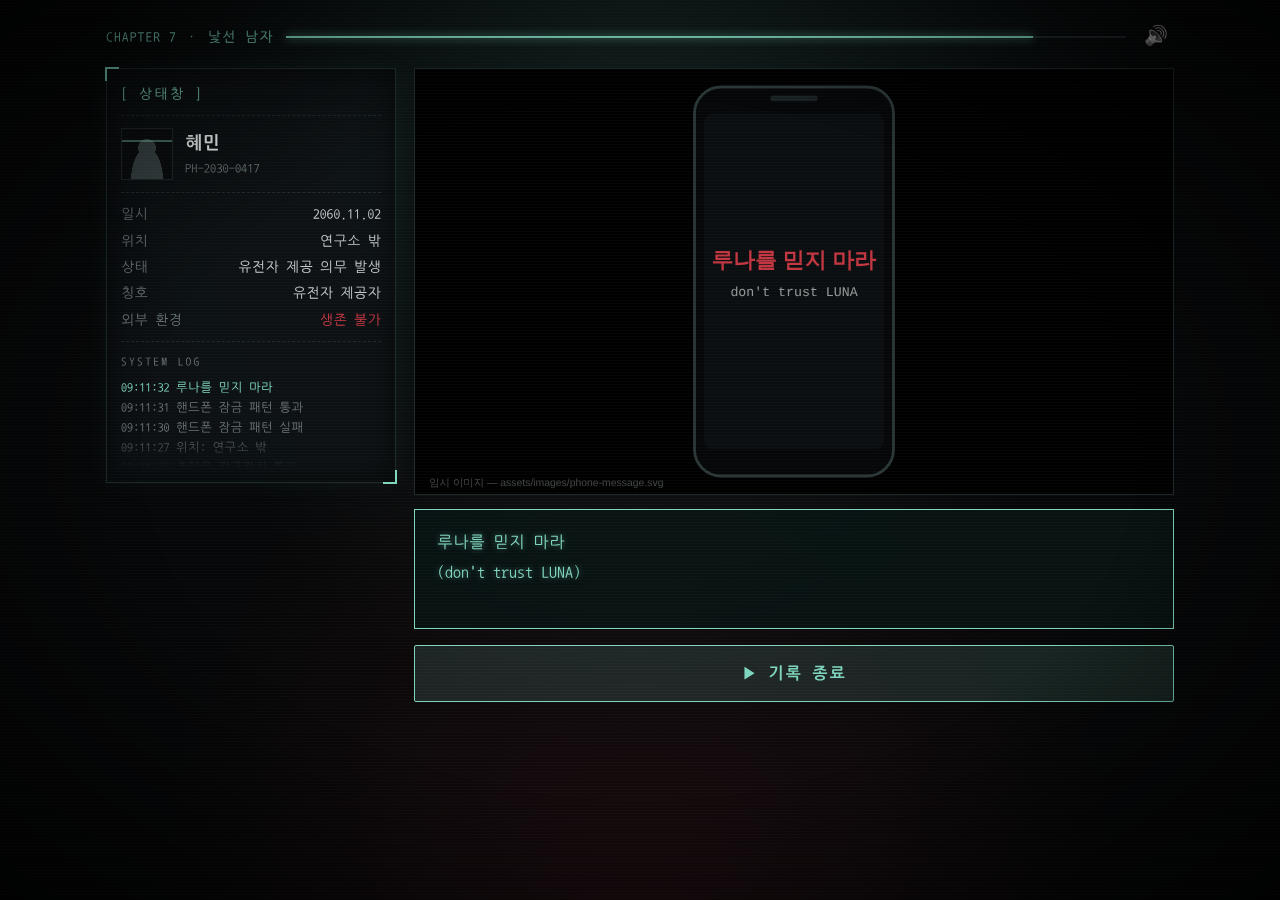
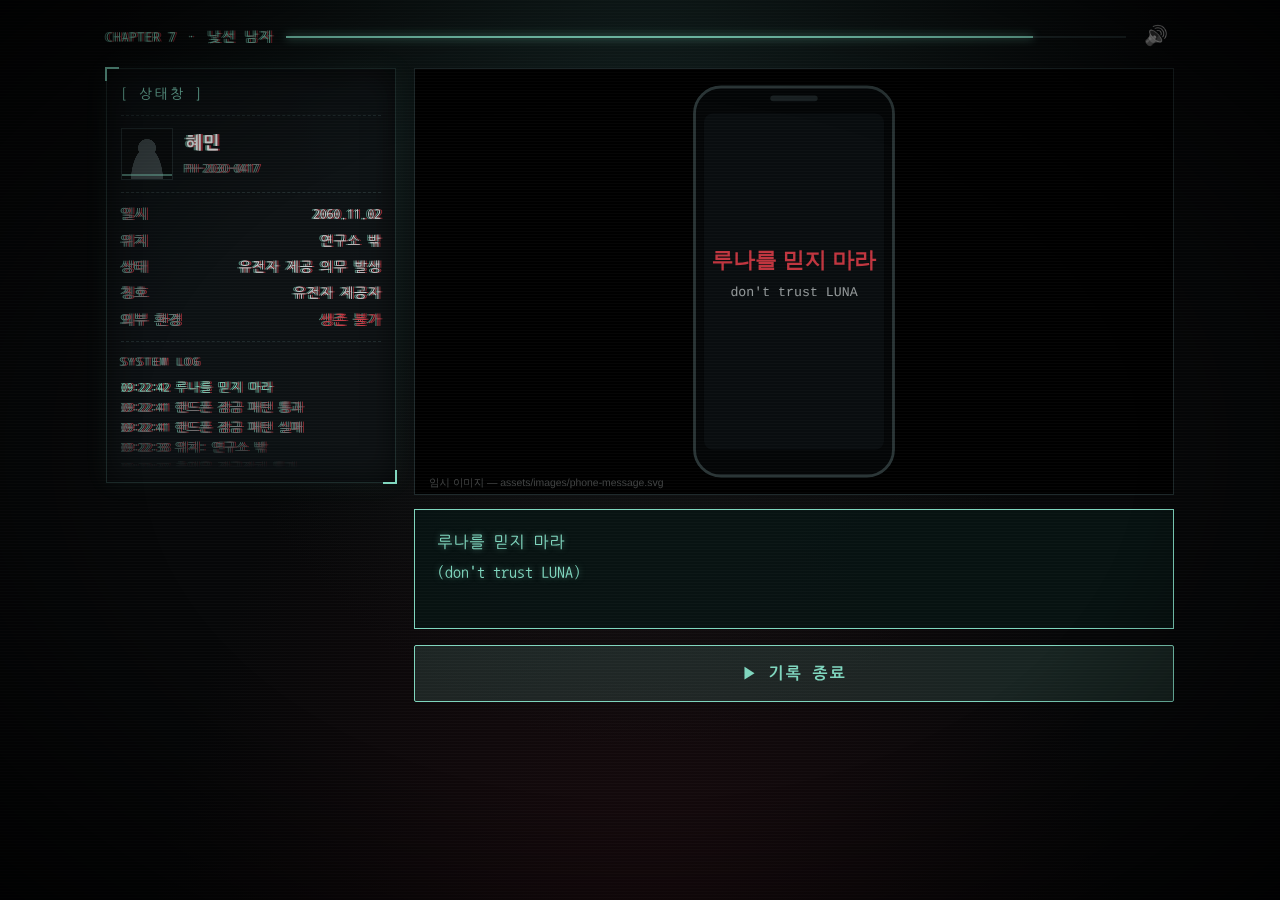
Introduce Luna on first appearance, hybrid creatures in flooded city, START marker on pattern
Claude-Session: https://claude.ai/code/session_01VVQm6ZpMozKBv796i5tcbU

diff --git a/story.js b/story.js
@@ -72,7 +72,8 @@ const GAME = {
         { system: "[SYSTEM] 해동 프로세스 완료\n경과 시간: 30년 7개월 19일", effect: "alarm" },
         { text: "…시끄러운 소리에 눈을 떠보니, 눈앞에 낯선 사람이 있다.", effect: "shake" },
         { speaker: "연구원", text: "{name}님, 정신이 드세요?" },
-        { speaker: "연구원", text: "박사님! {name}님이 깨어났어요!" },
+        { speaker: "루나", text: "저는 이 연구소의 연구원 루나예요." },
+        { speaker: "루나", text: "박사님! {name}님이 깨어났어요!" },
         "연구원복을 입은 여자는 다급하게 실험실 밖으로 달려나갔다.",
       ],
     },
@@ -84,12 +85,12 @@ const GAME = {
       media: { type: "image", src: "assets/images/scene3.svg" },
       lines: [
         "무사히 깨어난 것에 안도한 것도 잠시, 나는 정신을 차리고 여자에게 상황 설명을 들었다.",
-        { speaker: "연구원", text: "애석하게도 2060년 지구는 완전히 인간이 살 수 없는 행성이 되었어요.", effect: "glitch" },
-        { speaker: "연구원", text: "아시다시피 {name}님이 깨어있을 때부터 지속되던 지구 온난화 및 환경 오염으로 인해 생태계가 완전히 파괴되었고," },
-        { speaker: "연구원", text: "알 수 없는 전염병이 돌게 되었죠.", info: { "외부 환경": "생존 불가" } },
-        { speaker: "연구원", text: "인간들의 개체수는 거의 1/100으로 줄었고, 남아있는 인간들도 심각한 병에 시달리고 있죠.", effect: "glitch" },
-        { speaker: "연구원", text: "아이러니하게도 그런 상황에서 안전했던 건 몸을 캡슐 속에 얼려놓은 우리 '퍼펙트 휴먼'들 뿐이에요." },
-        { speaker: "연구원", text: "그리고 우리는 이제 이 망가진 지구에서 인류의 명맥을 이어야 하죠.", effect: "flash" },
+        { speaker: "루나", text: "애석하게도 2060년 지구는 완전히 인간이 살 수 없는 행성이 되었어요.", effect: "glitch" },
+        { speaker: "루나", text: "아시다시피 {name}님이 깨어있을 때부터 지속되던 지구 온난화 및 환경 오염으로 인해 생태계가 완전히 파괴되었고," },
+        { speaker: "루나", text: "알 수 없는 전염병이 돌게 되었죠.", info: { "외부 환경": "생존 불가" } },
+        { speaker: "루나", text: "인간들의 개체수는 거의 1/100으로 줄었고, 남아있는 인간들도 심각한 병에 시달리고 있죠.", effect: "glitch" },
+        { speaker: "루나", text: "아이러니하게도 그런 상황에서 안전했던 건 몸을 캡슐 속에 얼려놓은 우리 '퍼펙트 휴먼'들 뿐이에요." },
+        { speaker: "루나", text: "그리고 우리는 이제 이 망가진 지구에서 인류의 명맥을 이어야 하죠.", effect: "flash" },
         { system: "[SYSTEM] 칭호 획득: 「인류의 마지막 표본」", info: { 칭호: "인류의 마지막 표본" } },
       ],
     },
@@ -122,7 +123,6 @@ const GAME = {
       media: { type: "image", src: "assets/images/scene5.svg" },
       music: "assets/music/contract.mp3",
       lines: [
-        { system: "[SYSTEM] 인물 정보 갱신\n연구원 → 「루나」" },
         "연구소의 루나는 내게 말했다.",
         { speaker: "루나", text: "당신은 30년 전의 인간의 원형을 유지하는 몇 안 되는 인간이에요." },
         { speaker: "루나", text: "많이 슬프고 힘들겠지만 당신의 부모도, 친구들도 모두 다 저렇게 변해버렸어요.", effect: "glitch" },
